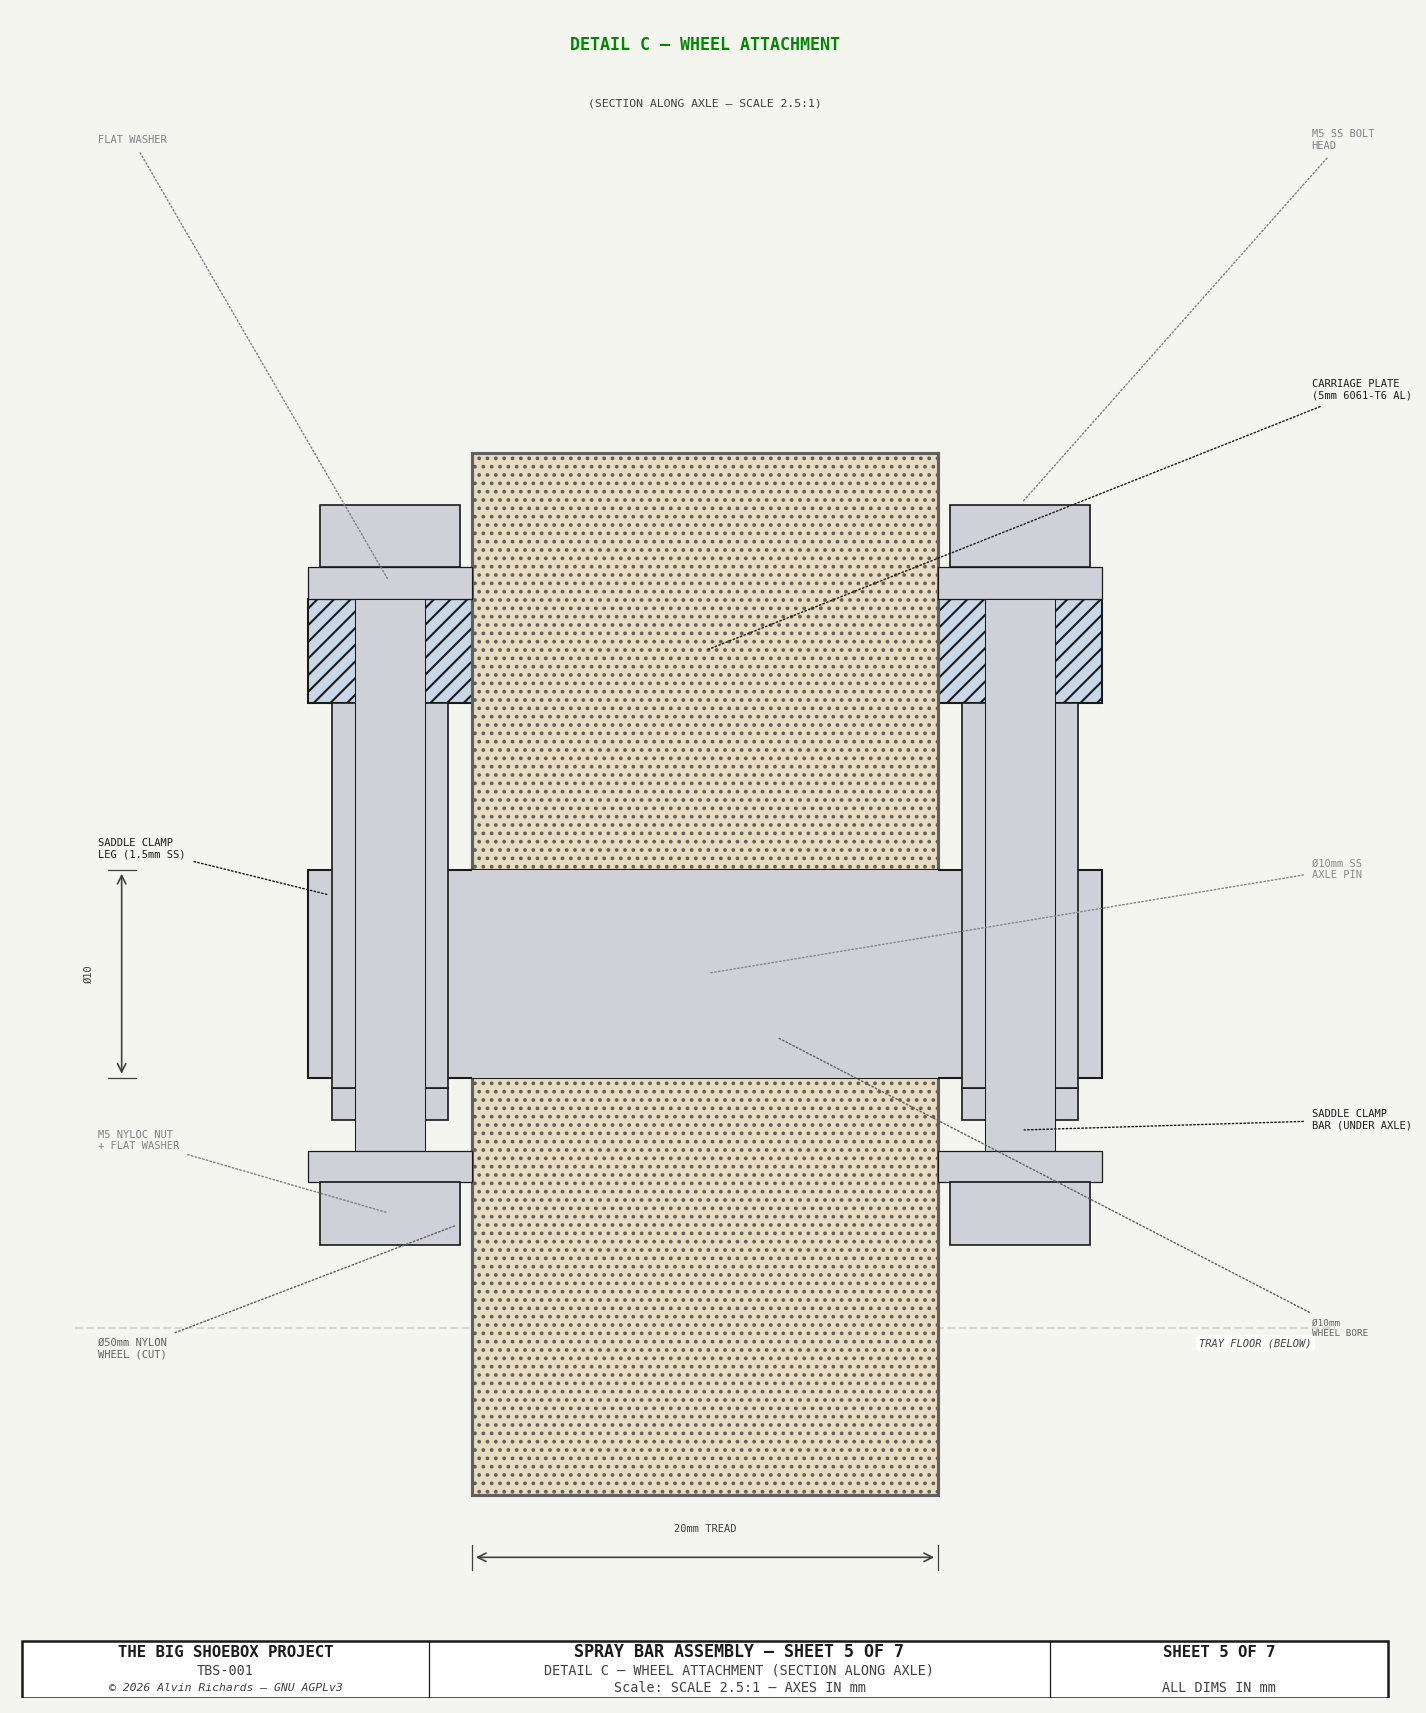
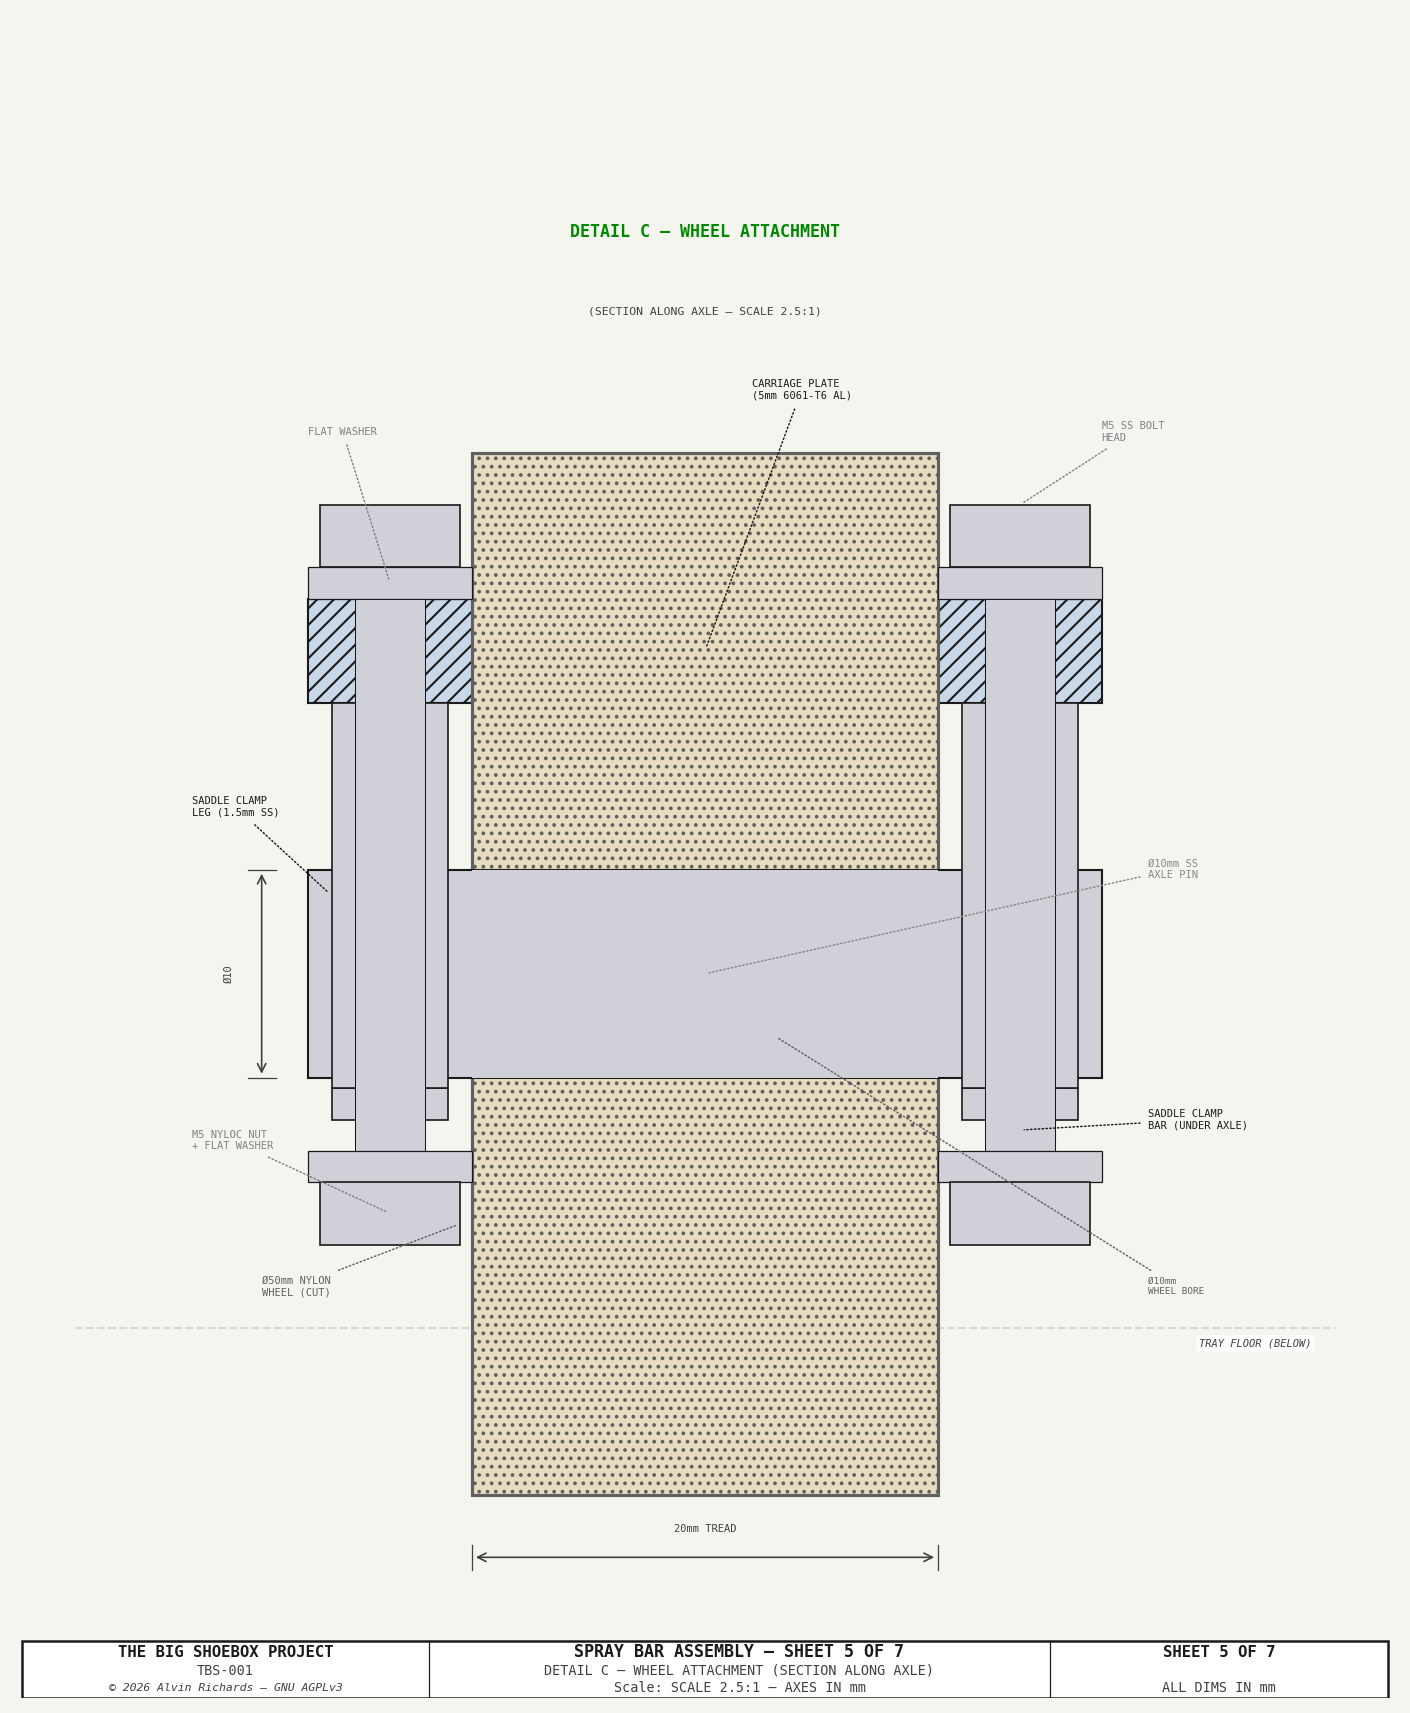
Tidy labels

diff --git a/src/generators/generate_spray_bar_diagram.py b/src/generators/generate_spray_bar_diagram.py
@@ -1306,11 +1306,11 @@ def draw_sheet5():
     ax_w.set_xlim(w_xl, w_xr)
     ax_w.set_ylim(w_yb, w_yt)
 
-    ax_w.text(0, w_yt - 1,
+    ax_w.text(0, w_yt - 10,
               "DETAIL C — WHEEL ATTACHMENT",
               ha="center", va="top", fontsize=8, color="#008800",
               fontweight="bold", **FONT, zorder=20)
-    ax_w.text(0, w_yt - 4,
+    ax_w.text(0, w_yt - 14,
               "(SECTION ALONG AXLE — SCALE 2.5:1)",
               ha="center", va="top", fontsize=5.5, color=C_DIM,
               **FONT, zorder=20)
@@ -1405,41 +1405,41 @@ def draw_sheet5():
     nut_bot = sc_bar_bot - washer_t - washer_t - nut_h
 
     # Right side labels
-    leader(ax_w, clamp_cx_r, bolt_head_top, w_xr - 1, w_yt - 6,
+    leader(ax_w, clamp_cx_r, bolt_head_top, w_xr - 10, w_yt - 20,
            "M5 SS BOLT\nHEAD",
            fs=5, color="#808088", font=FONT, zorder=20)
 
-    leader(ax_w, 0, plate_bot_y + plate_h / 2, w_xr - 1, 28,
+    leader(ax_w, 0, plate_bot_y + plate_h / 2, w_xr - 25, 28,
            "CARRIAGE PLATE\n(5mm 6061-T6 AL)",
            fs=5, color=C_FRAME, font=FONT, zorder=20)
 
-    leader(ax_w, 0, 0, w_xr - 1, 5,
+    leader(ax_w, 0, 0, w_xr - 8, 5,
            "Ø10mm SS\nAXLE PIN",
            fs=5, color="#888888", font=FONT, zorder=20)
 
-    leader(ax_w, clamp_cx_r, sc_bar_bot - 0.5, w_xr - 1, -7,
+    leader(ax_w, clamp_cx_r, sc_bar_bot - 0.5, w_xr - 8, -7,
            "SADDLE CLAMP\nBAR (UNDER AXLE)",
            fs=5, color=C_FRAME, font=FONT, zorder=20)
 
-    leader(ax_w, 3, -3, w_xr - 1, -17,
+    leader(ax_w, 3, -3, w_xr - 8, -15,
            "Ø10mm\nWHEEL BORE",
            fs=4.5, color=C_WHEEL, font=FONT, zorder=20)
 
     # Left side labels
-    leader(ax_w, clamp_cx_l, plate_top_y + washer_t / 2, w_xl + 1, w_yt - 6,
+    leader(ax_w, clamp_cx_l, plate_top_y + washer_t / 2, w_xl + 10, w_yt - 20,
            "FLAT WASHER",
            fs=5, color="#808088", font=FONT, zorder=20)
 
     leader(ax_w, clamp_cx_l - sc_hw, (sc_bar_top + plate_bot_y) / 2,
-           w_xl + 1, 6,
+           w_xl + 5, 8,
            "SADDLE CLAMP\nLEG (1.5mm SS)",
            fs=5, color=C_FRAME, font=FONT, zorder=20)
 
-    leader(ax_w, clamp_cx_l, nut_bot + nut_h / 2, w_xl + 1, -8,
+    leader(ax_w, clamp_cx_l, nut_bot + nut_h / 2, w_xl + 5, -8,
            "M5 NYLOC NUT\n+ FLAT WASHER",
            fs=5, color="#808088", font=FONT, zorder=20)
 
-    leader(ax_w, -10.5, -12, w_xl + 1, -18,
+    leader(ax_w, -10.5, -12, w_xl + 8, -15,
            "Ø50mm NYLON\nWHEEL (CUT)",
            fs=5, color=C_WHEEL, font=FONT, zorder=20)
 
@@ -1447,7 +1447,7 @@ def draw_sheet5():
     draw_dim_h(ax_w, -10, 10, w_yb + 2,
                "20mm TREAD", offset=2, fs=5, font=FONT)
 
-    draw_dim_v(ax_w, w_xl + 2, -axle_r, axle_r,
+    draw_dim_v(ax_w, w_xl + 8, -axle_r, axle_r,
                "Ø10", offset=2, fs=5, font=FONT)
 
     # ── Title block ──────────────────────────────────────────────────────
